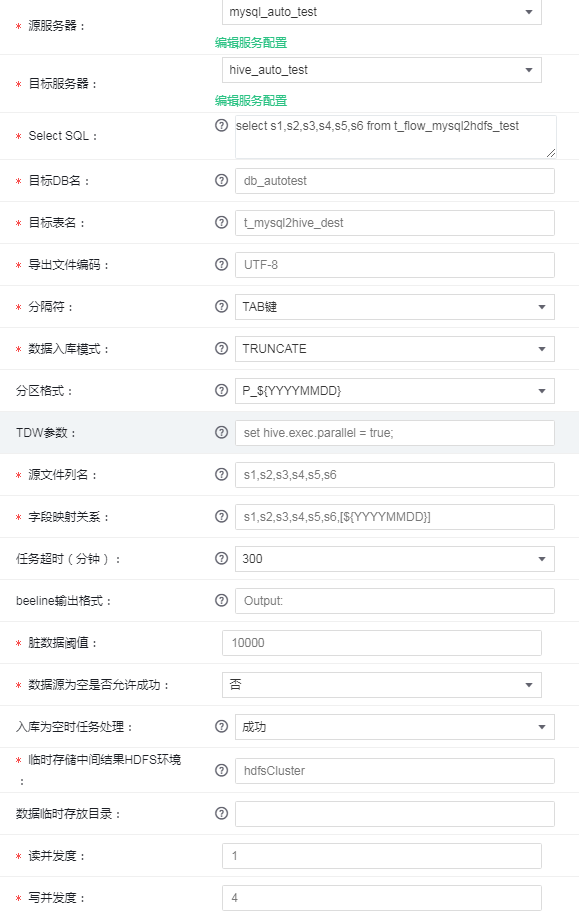
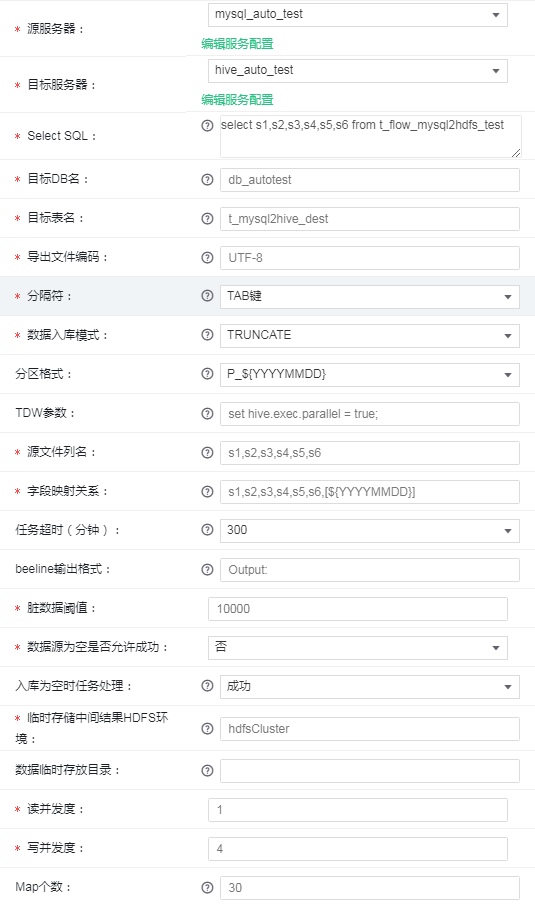
更新hive2mysql

diff --git a/workflow/workflow/runners/hive2mysql.md b/workflow/workflow/runners/hive2mysql.md
@@ -1,10 +1,10 @@
-执行shell脚本
+hive 导出到DB(mysql)
 
 ### 功能说明
-执行一个shell脚本，系统不会对shell进行语法检查。
+hive 查询记录导入关系型数据库（mysql）
 
 ### 其他说明
-shell脚本执行者为任务第一个责任人（portal登录用户)
+hive 查询使用，任务第一责任人连接（portal前台登陆用户）
 
 ### 任务设置
 #### 1. 基本信息  
@@ -13,8 +13,28 @@ shell脚本执行者为任务第一个责任人（portal登录用户)
 参考 [调度设置](/workflow/workflow/runnerCycle.md)  
 
 #### 3. 参数
-参数配置如下图
+参数配置如下图  
 ![hive2mysql](/workflow/workflow/images/hive2mysql.png)
+
+1. 源服务器
+2. 目标服务器
+3. 源db名称
+4. 源SQL
+5. 源SQL查询结果字段数量
+6. 分隔符
+7. 目标表（mysql）
+8. 目标表列名
+9. 脏数据阀值
+10. 数据源为空任务是否成功
+11. 数据入库模式
+12. 是否分区
+13. beeline输出格式
+14. 任务超时时间
+15. 临时存储中间结果HDFS环境
+16. 数据临时存放目录
+17. 读并发度
+18. 写并发度
+
 
 ### demo
 
